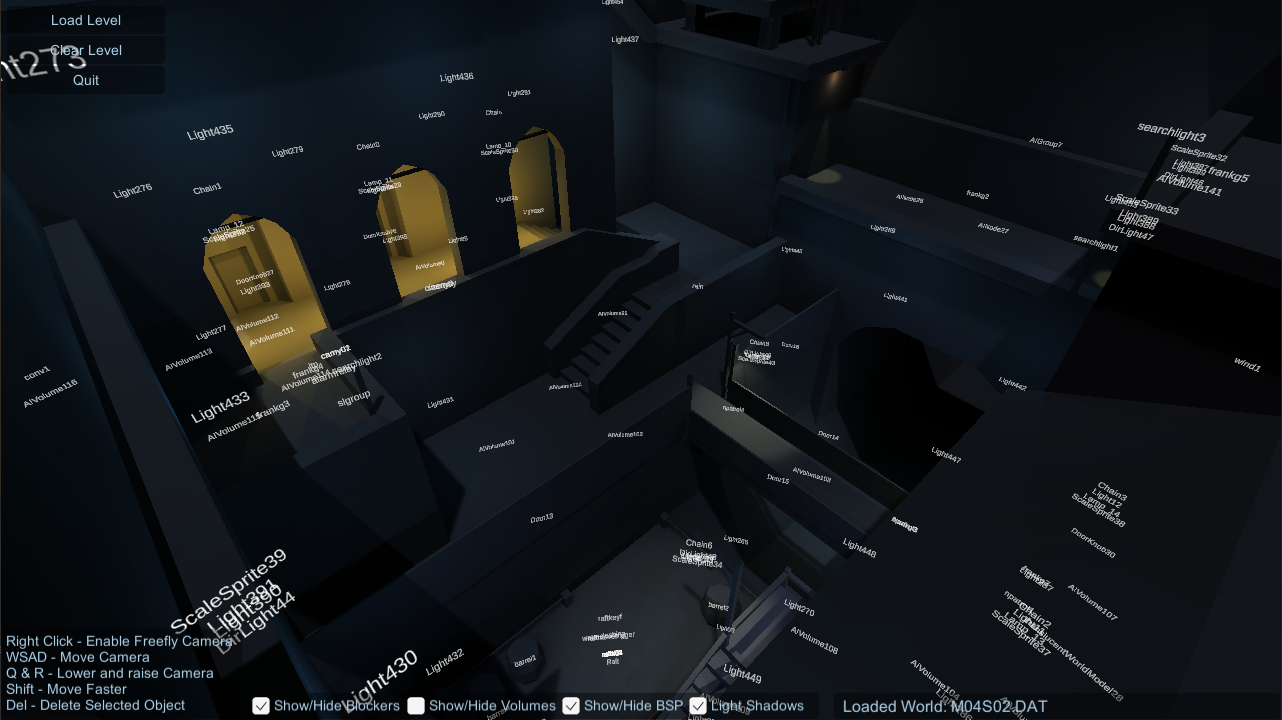
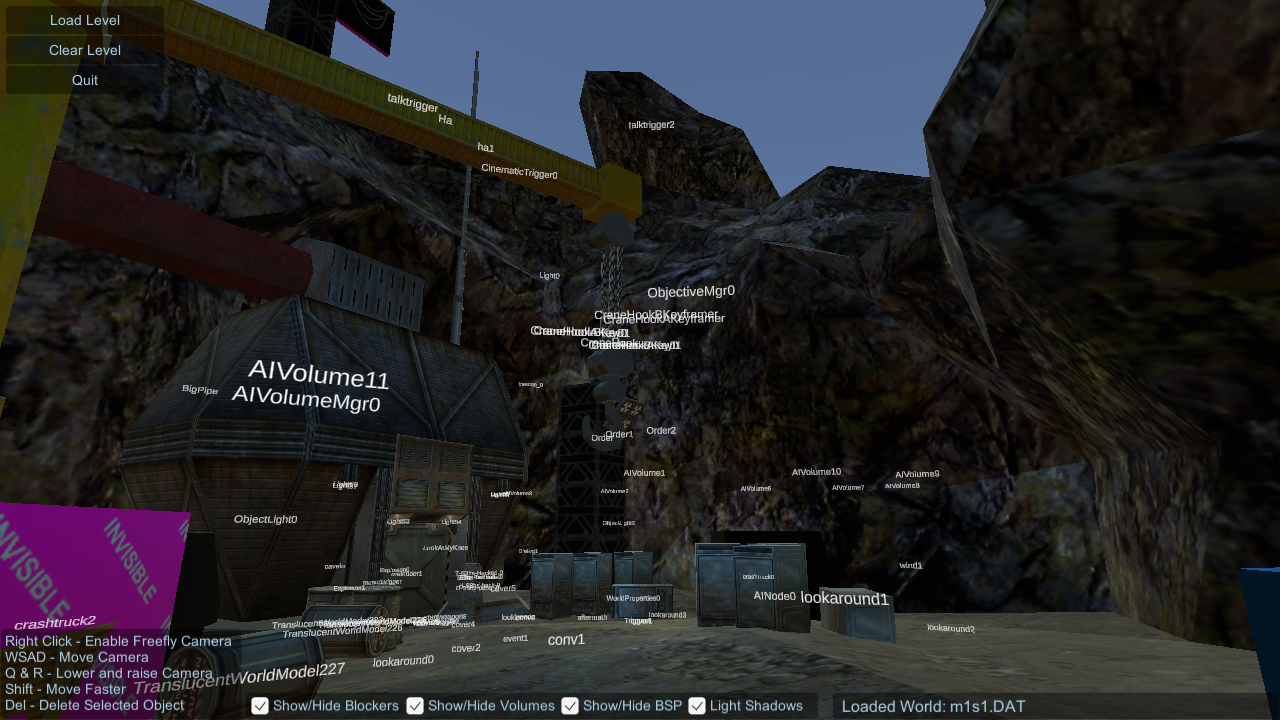
Updated screenshot and readme

diff --git a/README.md b/README.md
@@ -4,13 +4,15 @@ Lithtech DAT World Viewer
 
 ## **Overview**
 * It can display a .DAT file from AVP2 and NOLF
-* It has no UV support
+* It now has UV support!!
+* Loads DTX Textures into Unity natively!
 * Ability to hide and unhide the BSP, blockers, and volumes.
 * Realtime light preview with shadows
 * Object placement
 
 ## **TODO**
 * Ability to view objects properties like in DEdit
+* Fix NOLF support
 
 <p align="center">
 <img src="./images/datviewer.png" alt="DatViewer70", width="738">
